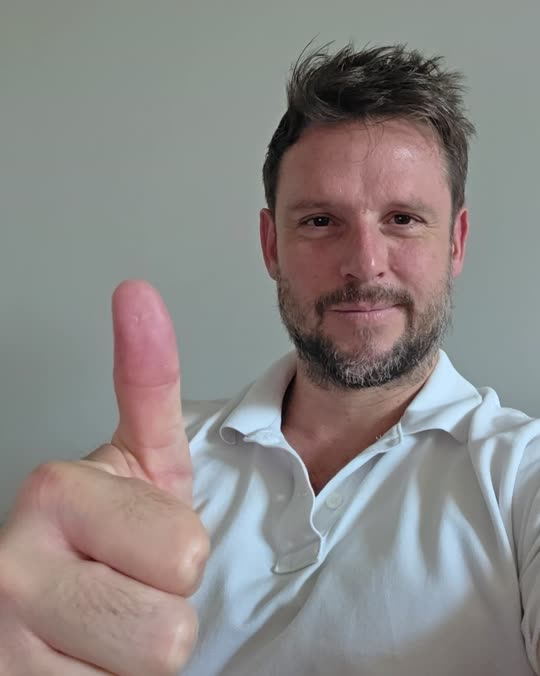
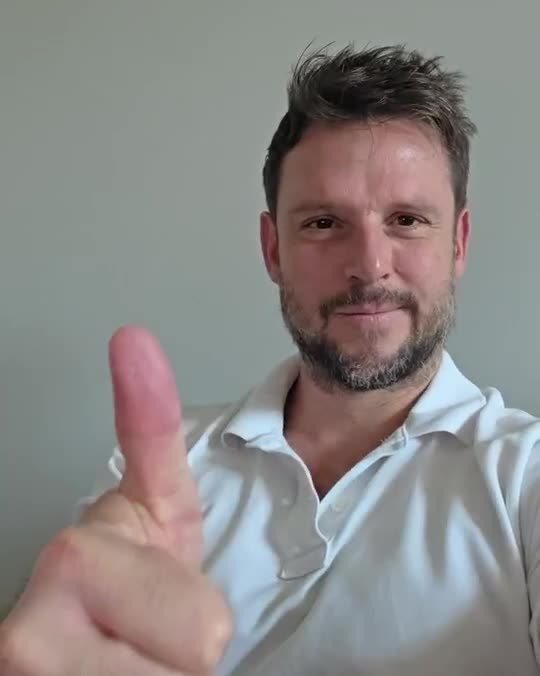
/apuesta/: bucle que termina con el pulgar extendido (2,6s) y regalo de la ficha 11 de El Desglose (la escalera de asistencia)
Claude-Session: https://claude.ai/code/session_01XXbBERmKZaSyhFYkNUS8qT

diff --git a/apuesta/index.html b/apuesta/index.html
@@ -17,12 +17,32 @@
 .saludo{display:flex;align-items:center;gap:clamp(18px,4vw,40px)}
 .foto{flex:0 0 clamp(130px,36%,280px);width:clamp(130px,36%,280px);height:auto;aspect-ratio:540/676;object-fit:cover;border-radius:var(--radius-1);background:#c9ccc8}
 .saludo .ups-h1{flex:1;min-width:0;margin:0;font-size:clamp(26px,5.4vw,52px)}
+.regalo{border-top:1px solid var(--line);margin-top:64px;padding-top:56px}
+.regalo .ups-h1{font-size:clamp(30px,5vw,48px)}
+.regalo-ul{list-style:none;padding:0;margin:0 0 32px;display:flex;flex-direction:column;gap:12px}
+.regalo-ul li{position:relative;padding-left:26px;font-size:18px;line-height:1.55}
+.regalo-ul li::before{content:"";position:absolute;left:0;top:.55em;width:9px;height:9px;background:var(--accent)}
+.regalo .ups-btn{max-width:440px}
+.regalo-pie{font-size:15px;color:var(--ink-muted);margin:18px 0 0}
+dialog.ficha-dlg{width:min(760px,calc(100vw - 24px));max-height:calc(100vh - 32px);overflow-y:auto;overscroll-behavior:contain;padding:0;border:1px solid var(--line-strong,var(--line));background:var(--bg);color:var(--ink)}
+dialog.ficha-dlg::backdrop{background:rgba(10,10,10,.6)}
+.ficha-cab{position:sticky;top:0;z-index:1;display:flex;justify-content:space-between;align-items:center;gap:16px;padding:12px 14px 12px 22px;background:var(--bg);border-bottom:1px solid var(--line);font-family:var(--font-mono);font-size:12px;letter-spacing:.04em;text-transform:uppercase;color:var(--ink-muted)}
+.ficha-cerrar{width:40px;height:40px;border:1px solid var(--line);background:transparent;color:var(--ink);font-size:22px;line-height:1;cursor:pointer}
+.ficha-cuerpo{padding:8px 22px 36px}
+.ficha-cuerpo h2{font-size:clamp(26px,4.4vw,38px);font-weight:900;font-stretch:80%;line-height:1;letter-spacing:-.03em;margin:24px 0 6px}
+.f-h2{font-size:22px;font-weight:800;letter-spacing:-.01em;margin:36px 0 12px}
+.ficha-cuerpo p,.f-ul li{font-size:17px;line-height:1.6;margin:0 0 12px}
+.f-mail{background:var(--bg-sunken);border:1px solid var(--line);padding:18px 20px 8px;margin:0 0 14px}
+.f-toque{font-family:var(--font-mono);font-size:12px!important;letter-spacing:.04em;text-transform:uppercase;color:var(--ink-muted)}
+.f-meta{font-size:15px!important;margin-bottom:4px!important}
+.f-nota{border-left:3px solid var(--accent);padding-left:14px}
+.f-ul{padding-left:20px;margin:0 0 12px}
 </style>
 </head>
 <body>
 <!-- Página de segmentación del email 7 de la bienvenida de /numeros/ («Te apuesto algo»).
      Quien hace clic en «Sí, me has pillado tío» aterriza aquí. La segmentación la hace Wildmail con la acción del enlace,
-     no esta página: aquí no hay formulario ni se mide nada aparte de la analítica general. -->
+     no esta página. Debajo va de regalo la ficha 11 de El Desglose (texto copiado del Doc «11 · La escalera de asistencia», 13-nov-2026); abrirla manda el evento ficha_apuesta_abierta. -->
 <div class="wrap" style="max-width: 760px; padding-top: 36px;">
   <img src="/assets/logo/dgdc-horizontal-claro.svg" alt="Daniel García de Celis" width="200" height="30" style="height: 30px; width: auto; display: block;">
 </div>
@@ -31,7 +51,139 @@
   <video class="foto" src="/apuesta/pulgar.mp4" poster="/apuesta/pulgar.jpg" width="540" height="676" autoplay loop muted playsinline aria-label="Daniel con el pulgar hacia arriba"></video>
   <h1 class="ups-h1">Perfecto, lo tengo en cuenta y te contaré cosas pronto.</h1>
   </div>
+  <section class="regalo" aria-labelledby="regalo-h2">
+    <p class="ups-eti">un regalo, ya que te he pillado</p>
+    <h2 class="ups-h1" id="regalo-h2">Los 6 emails que meten a la gente en la sala. <span class="mark">Y ninguno es de relleno.</span></h2>
+    <p class="ups-p">Es la ficha 11 de El Desglose, «La escalera de asistencia»: los seis toques que van del día antes al directo, escritos enteros y con lo que hace cada uno. Te la dejo aquí entera, sin pedirte nada a cambio.</p>
+    <ul class="regalo-ul">
+      <li>Por qué con dos o tres recordatorios no basta (y se nota en la sala).</li>
+      <li>Los seis emails escritos, con asunto y preheader, para adaptarlos a tu evento.</li>
+      <li>Qué trabajo hace cada toque y por qué va justo donde va.</li>
+      <li>Por qué concentrarlos en las últimas 24 horas funciona y repartirlos por la semana no.</li>
+      <li>Los dos toques que más gente meten en la sala, y que son justo los que más pereza da mandar.</li>
+    </ul>
+    <button type="button" class="ups-btn js-abrir-ficha">Leer la ficha 11 entera →</button>
+    <p class="regalo-pie">Es una de las fichas de El Desglose. Del resto te hablo pronto.</p>
+  </section>
 </div>
+
+<dialog class="ficha-dlg" id="ficha-dlg" aria-labelledby="ficha-dlg-titulo">
+  <div class="ficha-cab"><span>ficha 11 · el desglose</span><button type="button" class="ficha-cerrar js-cerrar-ficha" aria-label="Cerrar">×</button></div>
+  <div class="ficha-cuerpo">
+    <h2 id="ficha-dlg-titulo">La escalera de asistencia</h2>
+<h3 class="f-h2">De qué va</h3>
+<p>Registrarse es gratis y olvidarse también.</p>
+<p>Entre el día que alguien se apunta a tu evento y el día del evento pasan cosas: se le llena la agenda, se le olvida, le surge algo o simplemente deja de acordarse de que aquello existía.</p>
+<p>Esta pieza es lo que impide que eso pase.</p>
+<p>No es un email, son seis toques repartidos entre el día antes y el momento del directo. Y cada uno hace un trabajo distinto: unos recuerdan, otros dan ganas y el último quita la fricción de conectarse.</p>
+<p>La tentación es mandar dos o tres y pensar que con eso basta. No basta, y se nota en la sala.</p>
+<p>Y ojo con una cosa que a mí me costó entender: <b>los toques del final no molestan a nadie salvo al que ya había decidido no venir.</b> El que sí va a conectarse los agradece, porque le llegan justo cuando estaba con otra cosa.</p>
+<p>Va entre el registro y el evento, con el grueso concentrado en las últimas veinticuatro horas.</p>
+<h3 class="f-h2">Los emails</h3>
+<div class="f-mail"><p class="f-toque">Toque 1 · Veinticuatro horas antes</p>
+<p class="f-meta"><b>Asunto: Mañana a las 19:00</b></p>
+<p class="f-meta"><b>Preheader: Y lo que vamos a mirar exactamente.</b></p>
+<p>Mañana nos vemos.</p>
+<p>Te recuerdo lo que vamos a hacer, que no es una charla sobre tendencias del sector.</p>
+<p>Vamos a coger tres agencias reales, mirar por dónde se les está yendo el margen y ver qué tocarían primero. Con sus números en pantalla.</p>
+<p>Si alguna vez has terminado un mes bueno y has pensado "he facturado más que nunca y no lo noto", eso es exactamente lo que vamos a desmontar.</p>
+<p>Mañana a las 19:00. El enlace te llega por la mañana y otra vez una hora antes: no lo busques ahora.</p>
+<p>Un abrazo,</p>
+</div>
+<div class="f-mail"><p class="f-toque">Toque 2 · La mañana del evento</p>
+<p class="f-meta"><b>Asunto: Aquí tienes el enlace</b></p>
+<p class="f-meta"><b>Preheader: Guárdalo o entra directo esta tarde.</b></p>
+<p>Buenos días.</p>
+<p>Esta tarde a las 19:00, aquí: [ENLACE]</p>
+<p>Te lo mando ahora para que lo tengas y no lo tengas que buscar luego con las prisas.</p>
+<p>Una cosa práctica: ponte donde puedas escribir. Va a haber un momento en el que te voy a pedir que hagas una cuenta con los números de tu propia agencia, y hacerla en el momento no es lo mismo que decir "esto lo miro luego".</p>
+<p>Nos vemos en unas horas.</p>
+<p>Un abrazo,</p>
+</div>
+<div class="f-mail"><p class="f-toque">Toque 3 · Tres horas antes</p>
+<p class="f-meta"><b>Asunto: En tres horas</b></p>
+<p class="f-meta"><b>Preheader: Y por qué te interesa la primera media hora.</b></p>
+<p>En tres horas empezamos.</p>
+<p>Te aviso de una cosa: empiezo puntual y la parte de los tres casos va al principio. Si llegas a y media, te la pierdes.</p>
+<p>No es por castigar al que llega tarde, es que lo interesante está ahí y luego construimos sobre eso.</p>
+<p>[ENLACE]</p>
+<p>Un abrazo,</p>
+</div>
+<div class="f-mail"><p class="f-toque">Toque 4 · Una hora antes</p>
+<p class="f-meta"><b>Asunto: En una hora</b></p>
+<p class="f-meta"><b>Preheader: Enlace aquí.</b></p>
+<p>En una hora.</p>
+<p>[ENLACE]</p>
+<p>Un abrazo,</p>
+</div>
+<div class="f-mail"><p class="f-toque">Toque 5 · En vivo</p>
+<p class="f-meta"><b>Asunto: Estamos dentro</b></p>
+<p class="f-meta"><b>Preheader: Entra aunque llegues empezado.</b></p>
+<p>Ya hemos empezado.</p>
+<p>Si te has liado, entra igual: [ENLACE]</p>
+<p>Estamos en la parte de los casos, que es la buena. Entra y te pones al día en dos minutos.</p>
+<p>Un abrazo,</p>
+</div>
+<div class="f-mail"><p class="f-toque">Toque 6 · Al terminar</p>
+<p class="f-meta"><b>Asunto: Seguimos mañana</b></p>
+<p class="f-meta"><b>Preheader: Y lo que viene ahora.</b></p>
+<p>Se me ha hecho corto.</p>
+<p>Gracias a los que estuvisteis, y sobre todo a los que sacasteis vuestros números en directo, que eso tiene mérito.</p>
+<p>Mañana te mando la grabación con fecha de caducidad, y te cuento una cosa que anuncié al final y que no todo el mundo llegó a escuchar.</p>
+<p>Un abrazo,</p>
+</div>
+<p class="f-nota"><b>Nota · El incentivo que solo existe en directo.</b> Si quieres subir la asistencia real y no solo los registros, ata algo a estar presente: un análisis en vivo de la agencia de alguien de la sala, un material que solo se entrega ahí, un sorteo. La regla para saber si sirve es esta: <b>si lo puedes mandar mañana por email, no es un incentivo.</b> Tiene que ser algo que se pierda por no estar.</p>
+<h3 class="f-h2">Las tripas de los emails</h3>
+<p><i>Ya los has leído. Ahora mira el esqueleto de la escalera: qué hace cada toque y por qué está donde está.</i></p>
+<ul class="f-ul">
+<li><b>La escalera completa</b>: seis toques con densidad creciente. El primero trabaja el deseo y los últimos quitan fricción, y esa progresión es la pieza, no cada email por separado.</li>
+<li><b>El toque de veinticuatro horas recuerda el porqué</b>: no dice que hay un evento, dice qué se va a hacer dentro. Es el único de los seis que todavía tiene que convencer.</li>
+<li><b>La frase de reconocimiento</b>: "has facturado más que nunca y no lo notas". Coloca al lector dentro del problema en una línea.</li>
+<li><b>El aviso de que el enlace llega luego</b>: le quita la tarea de guardarlo. Cada cosa que no tiene que hacer es una excusa menos para no aparecer.</li>
+<li><b>El toque de la mañana entrega el enlace</b>: su único trabajo es que lo tenga. Corto, práctico y sin argumentos.</li>
+<li><b>La instrucción de preparación</b>: que se ponga donde pueda escribir. Le obliga a decidir dónde va a estar, y quien decide eso ya casi ha ido.</li>
+<li><b>El toque de tres horas usa la jerarquía</b>: dice qué parte se pierde si llega tarde. Es lo que consigue puntualidad sin regañar a nadie.</li>
+<li><b>El toque de una hora es solo el enlace</b>: cuatro palabras. A esa altura, cualquier argumento sobra y estorba.</li>
+<li><b>El toque en vivo recoge al rezagado</b>: "entra aunque llegues empezado". Sin este toque pierdes a todo el que asume que ya es tarde.</li>
+<li><b>El detalle de qué se está viendo</b>: le dice que se pone al día en dos minutos. Quita la única objeción del que llega tarde.</li>
+<li><b>El toque de cierre agradece y siembra</b>: da las gracias con un detalle concreto y anuncia el replay con caducidad. Es la bisagra hacia la fase siguiente.</li>
+<li><b>La densidad creciente</b>: uno el día antes, cinco el día del evento. La escalera se estrecha según se acerca la hora, que es como funciona la atención.</li>
+</ul>
+<h3 class="f-h2">Lo que yo he aprendido usándolos</h3>
+<ul class="f-ul">
+<li><b>Los seis toques hacen falta y los últimos son los que más traen.</b> Cada vez que he recortado la escalera para no dar la lata, ha bajado la asistencia. El de una hora antes y el de en vivo son los dos que más gente meten en la sala, y son los dos que más pereza dan de mandar.</li>
+<li><b>Los últimos molestan solo al que no iba a venir.</b> El que se conecta agradece el aviso, porque le llega justo cuando estaba haciendo otra cosa. Las bajas que provoca esta escalera son de gente que ya había decidido no aparecer.</li>
+<li><b>La densidad importa más que el número.</b> Seis toques repartidos por igual a lo largo de la semana no funcionan. Concentrados el día del evento, sí, porque es cuando la persona decide de verdad si se conecta o no.</li>
+</ul>
+<h3 class="f-h2">¡Ojo!</h3>
+<p>No cambies el argumento en cada toque. Los seis venden lo mismo, y lo que cambia es cuánto dicen: el primero explica y el de una hora antes solo pone el enlace. Si cada uno trae un argumento nuevo, la escalera se convierte en seis emails distintos y cansa.</p>
+<p>Y si prometes que empiezas puntual, empieza puntual. El toque de tres horas antes usa eso como argumento, y quien llegó a la hora por tu culpa se acuerda si te pones a saludar veinte minutos.</p>
+<p><b>Errores que lo matan:</b> recortar la escalera para no dar la lata · repartir los toques por igual en vez de concentrarlos · meter argumentos nuevos en los toques finales · olvidar el toque de en vivo, que es el que recoge al que cree que ya es tarde · prometer puntualidad y empezar tarde.</p>
+<h3 class="f-h2">Súbela tú</h3>
+<ul class="f-ul">
+<li><b>La escalera</b> → seis toques con densidad creciente hacia la hora del evento. La pieza es la progresión, no cada email suelto.</li>
+<li><b>El toque lejano</b> → el único que todavía convence. Cuenta qué se va a hacer dentro, no que hay un evento.</li>
+<li><b>El toque de la mañana</b> → entrega el enlace y quita tareas. Cada cosa que no tiene que hacer es una excusa menos.</li>
+<li><b>La preparación</b> → pídele algo pequeño que tenga listo. Le obliga a decidir dónde va a estar a esa hora.</li>
+<li><b>El toque intermedio</b> → usa la jerarquía: qué parte se pierde si llega tarde. Consigue puntualidad sin regañar.</li>
+<li><b>El toque de una hora</b> → el enlace y poco más. Cualquier argumento a esa altura estorba.</li>
+<li><b>El toque en vivo</b> → recoge al que cree que ya es tarde y dile qué se está viendo ahora. Es el que más gente mete de los seis.</li>
+<li><b>El toque de cierre</b> → agradece con un detalle real y siembra lo que viene. Es la bisagra hacia la fase siguiente.</li>
+<li><b>El incentivo</b> → si quieres asistencia real, ata algo a estar presente. Si se puede mandar mañana por email, no es un incentivo.</li>
+</ul>
+  </div>
+</dialog>
+<script>
+(function () {
+  var dlg = document.getElementById('ficha-dlg');
+  document.querySelector('.js-abrir-ficha').addEventListener('click', function () {
+    if (dlg.showModal) dlg.showModal(); else dlg.setAttribute('open', '');
+    if (window.dgcTrack) window.dgcTrack('ficha_apuesta_abierta');
+  });
+  dlg.querySelector('.js-cerrar-ficha').addEventListener('click', function () { dlg.close(); });
+  dlg.addEventListener('click', function (e) { if (e.target === dlg) dlg.close(); });
+})();
+</script>
 
 <div class="ups-pie"><div class="wrap" style="max-width: 760px;"><span>daniel garcía de celis</span><span><a href="/aviso-legal/">aviso legal</a><a href="/privacidad/">privacidad</a><a href="/cookies/">cookies</a></span></div></div>
 </body>
